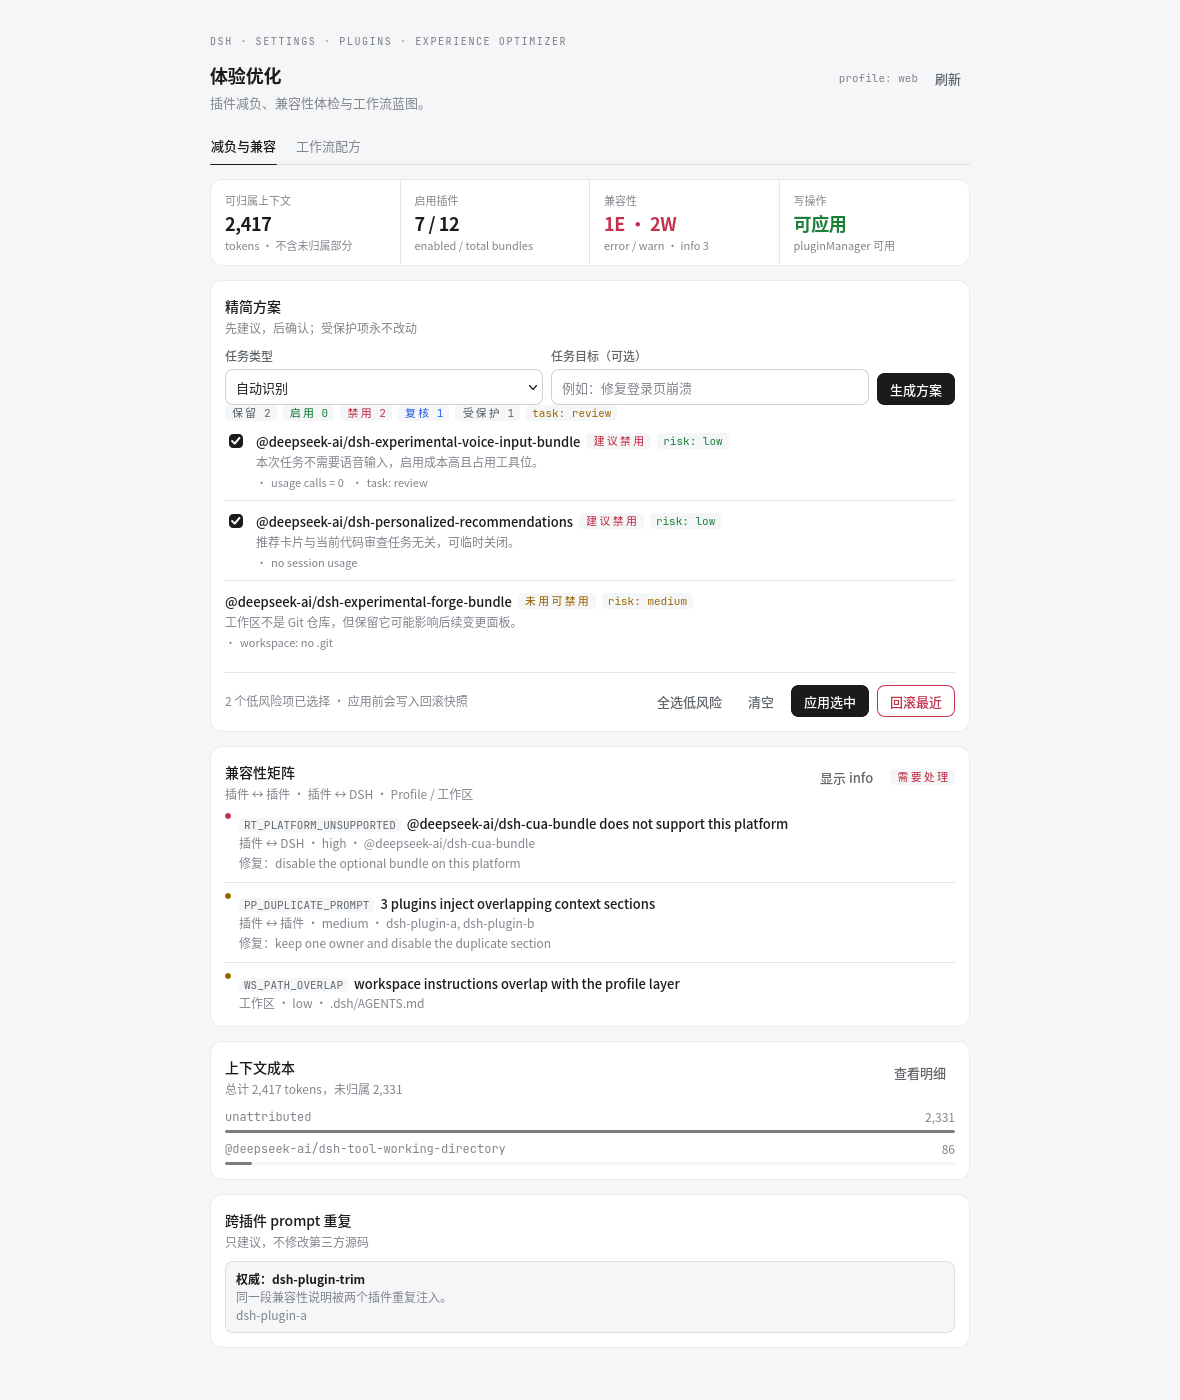
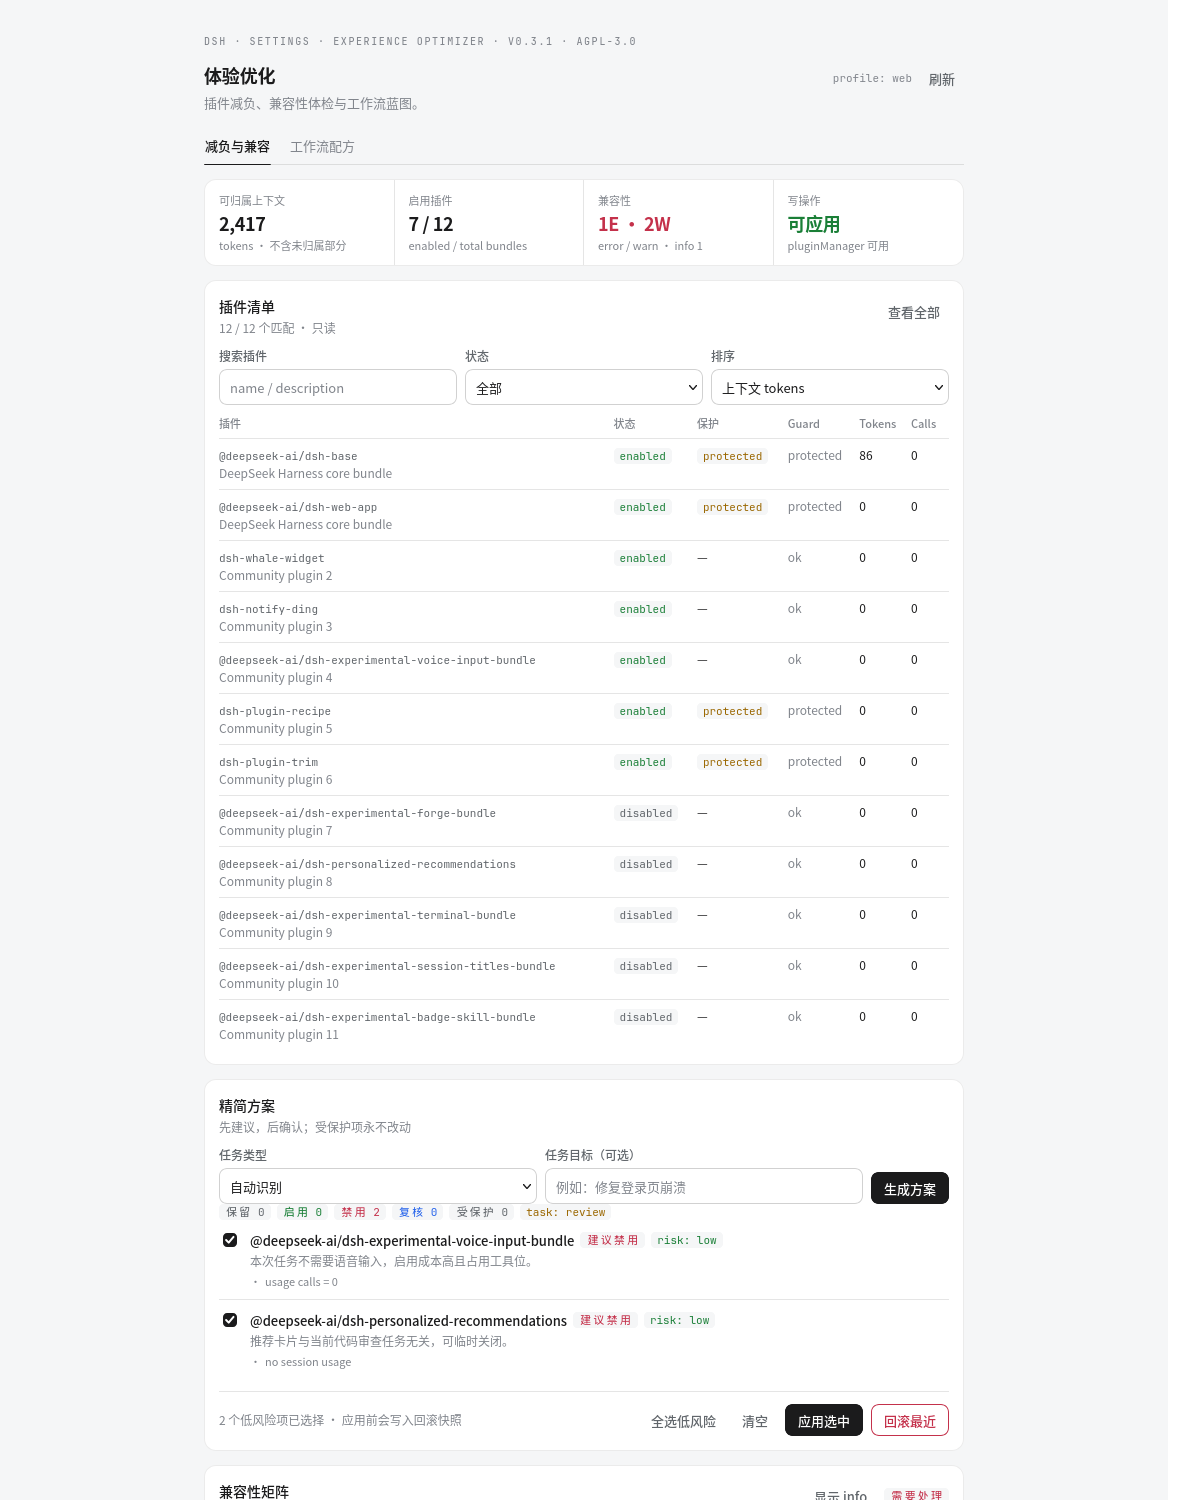
docs: refresh UI preview for the inventory release

diff --git a/packages/plugin-trim/client.js b/packages/plugin-trim/client.js
@@ -39,12 +39,13 @@ window.__ModuleLoader__.load({
 .eo-tab-active:after{content:"";position:absolute;left:0;right:0;bottom:-1px;height:1.5px;background:var(--eo-primary);border-radius:1px}
 .eo-stack{display:flex;flex-direction:column;gap:14px}
 .eo-stack>.eo-metrics{order:0}
-.eo-stack>[data-section="draft"]{order:1}
-.eo-stack>[data-section="compat"]{order:2}
-.eo-stack>[data-section="context"]{order:3}
-.eo-stack>[data-section="result"]{order:4}
-.eo-stack>[data-section="dedupe"]{order:5}
-.eo-stack>[data-section="diagnostics"]{order:6}
+.eo-stack>[data-section="inventory"]{order:1}
+.eo-stack>[data-section="draft"]{order:2}
+.eo-stack>[data-section="compat"]{order:3}
+.eo-stack>[data-section="context"]{order:4}
+.eo-stack>[data-section="result"]{order:5}
+.eo-stack>[data-section="dedupe"]{order:6}
+.eo-stack>[data-section="diagnostics"]{order:7}
 .eo-grid{display:grid;gap:10px}
 .eo-metrics{grid-template-columns:repeat(4,minmax(0,1fr));gap:0;border:.5px solid var(--eo-card-stroke);border-radius:var(--eo-radius);background:var(--eo-card-bg);overflow:hidden}
 .eo-metric{padding:12px 14px;border-right:.5px solid var(--eo-border);min-width:0}
